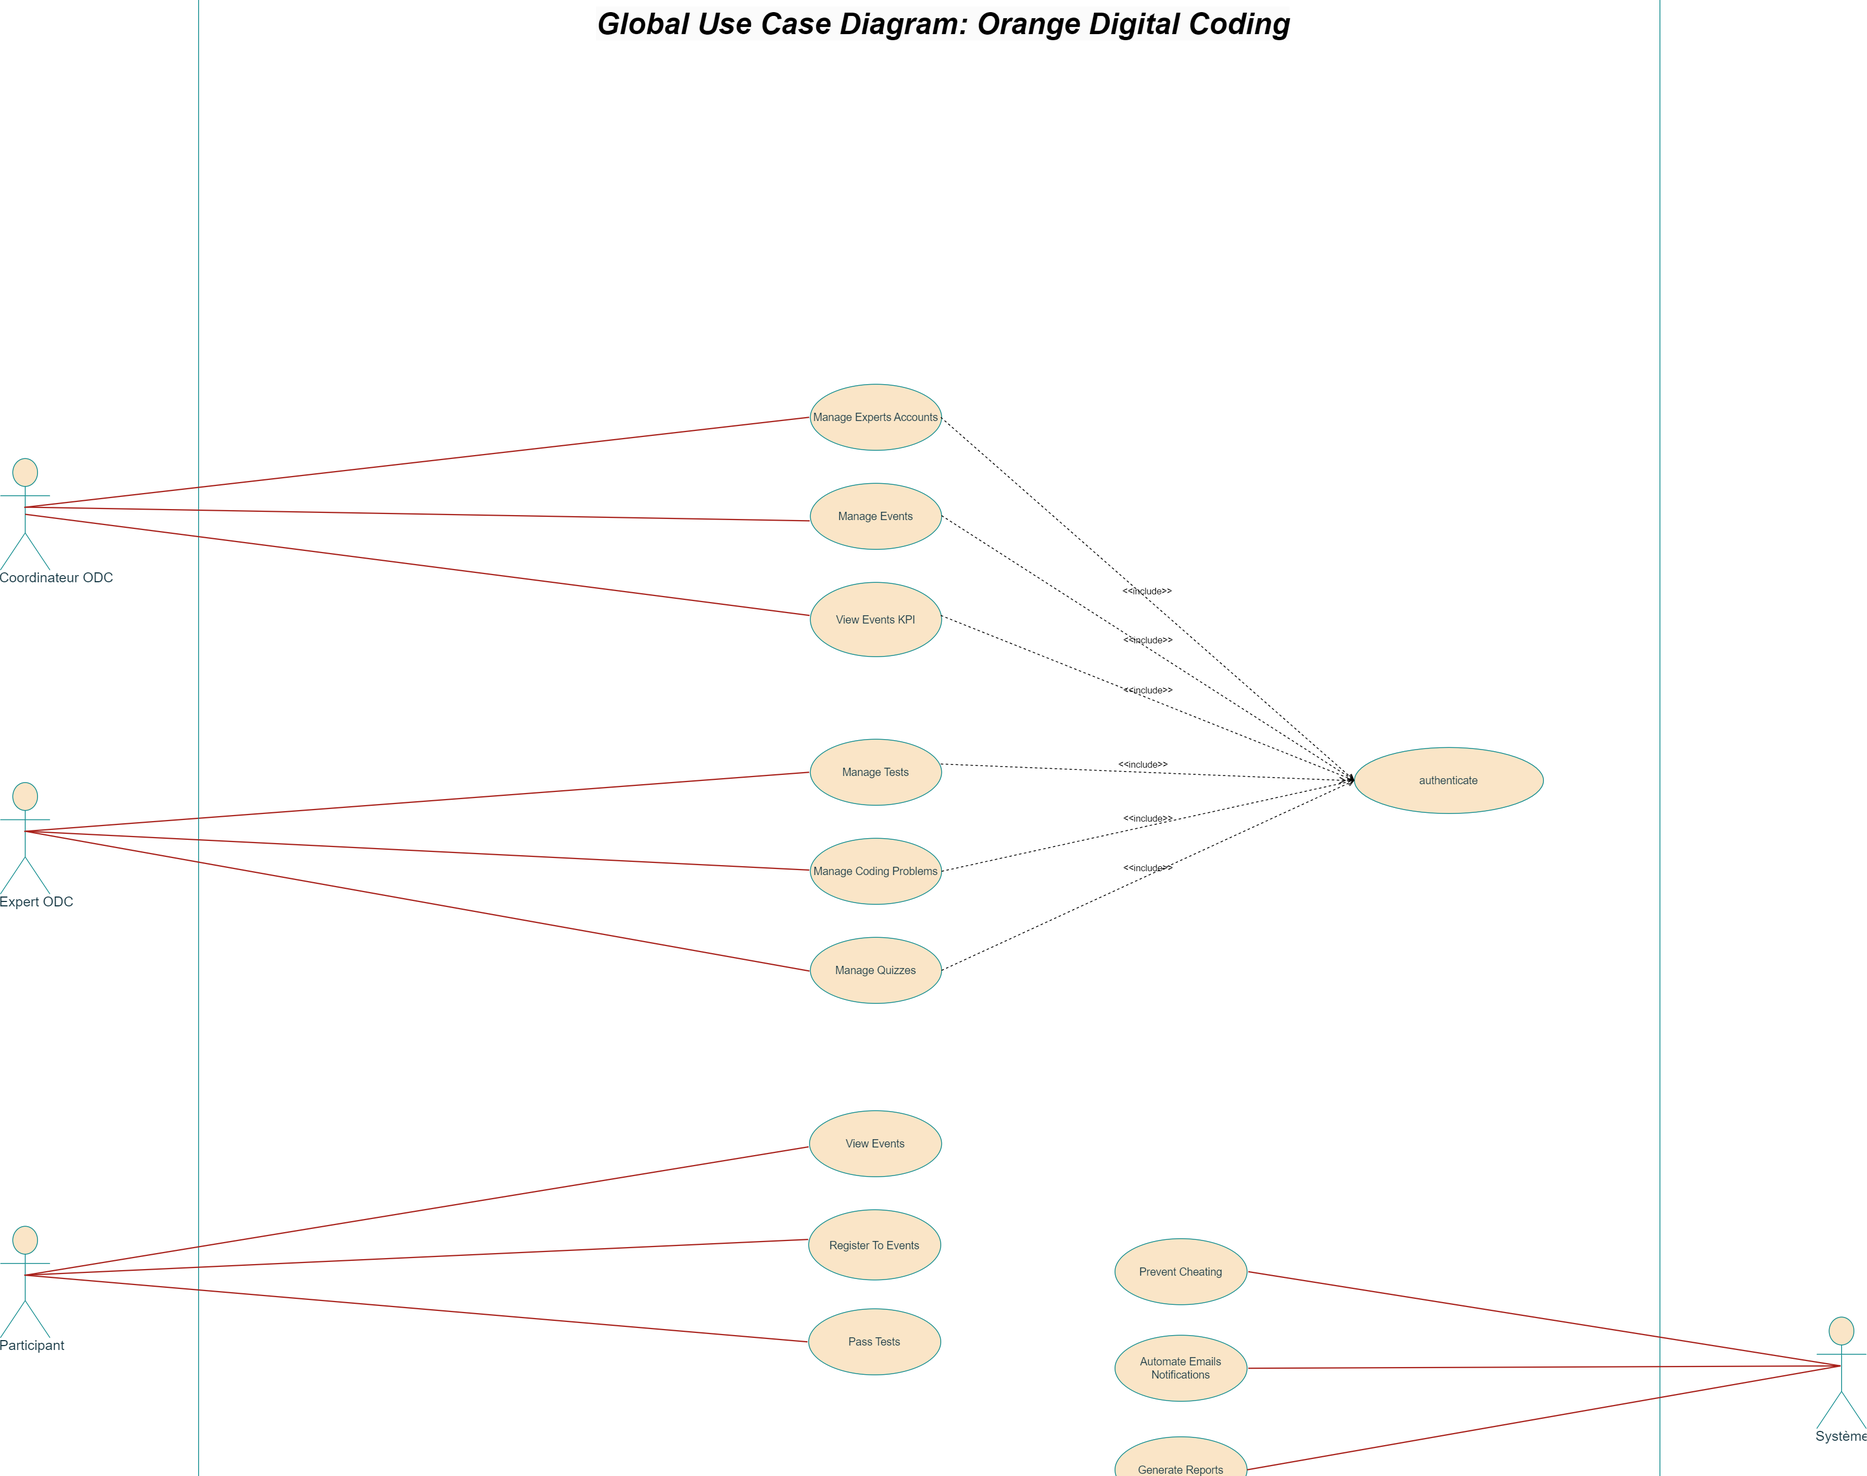
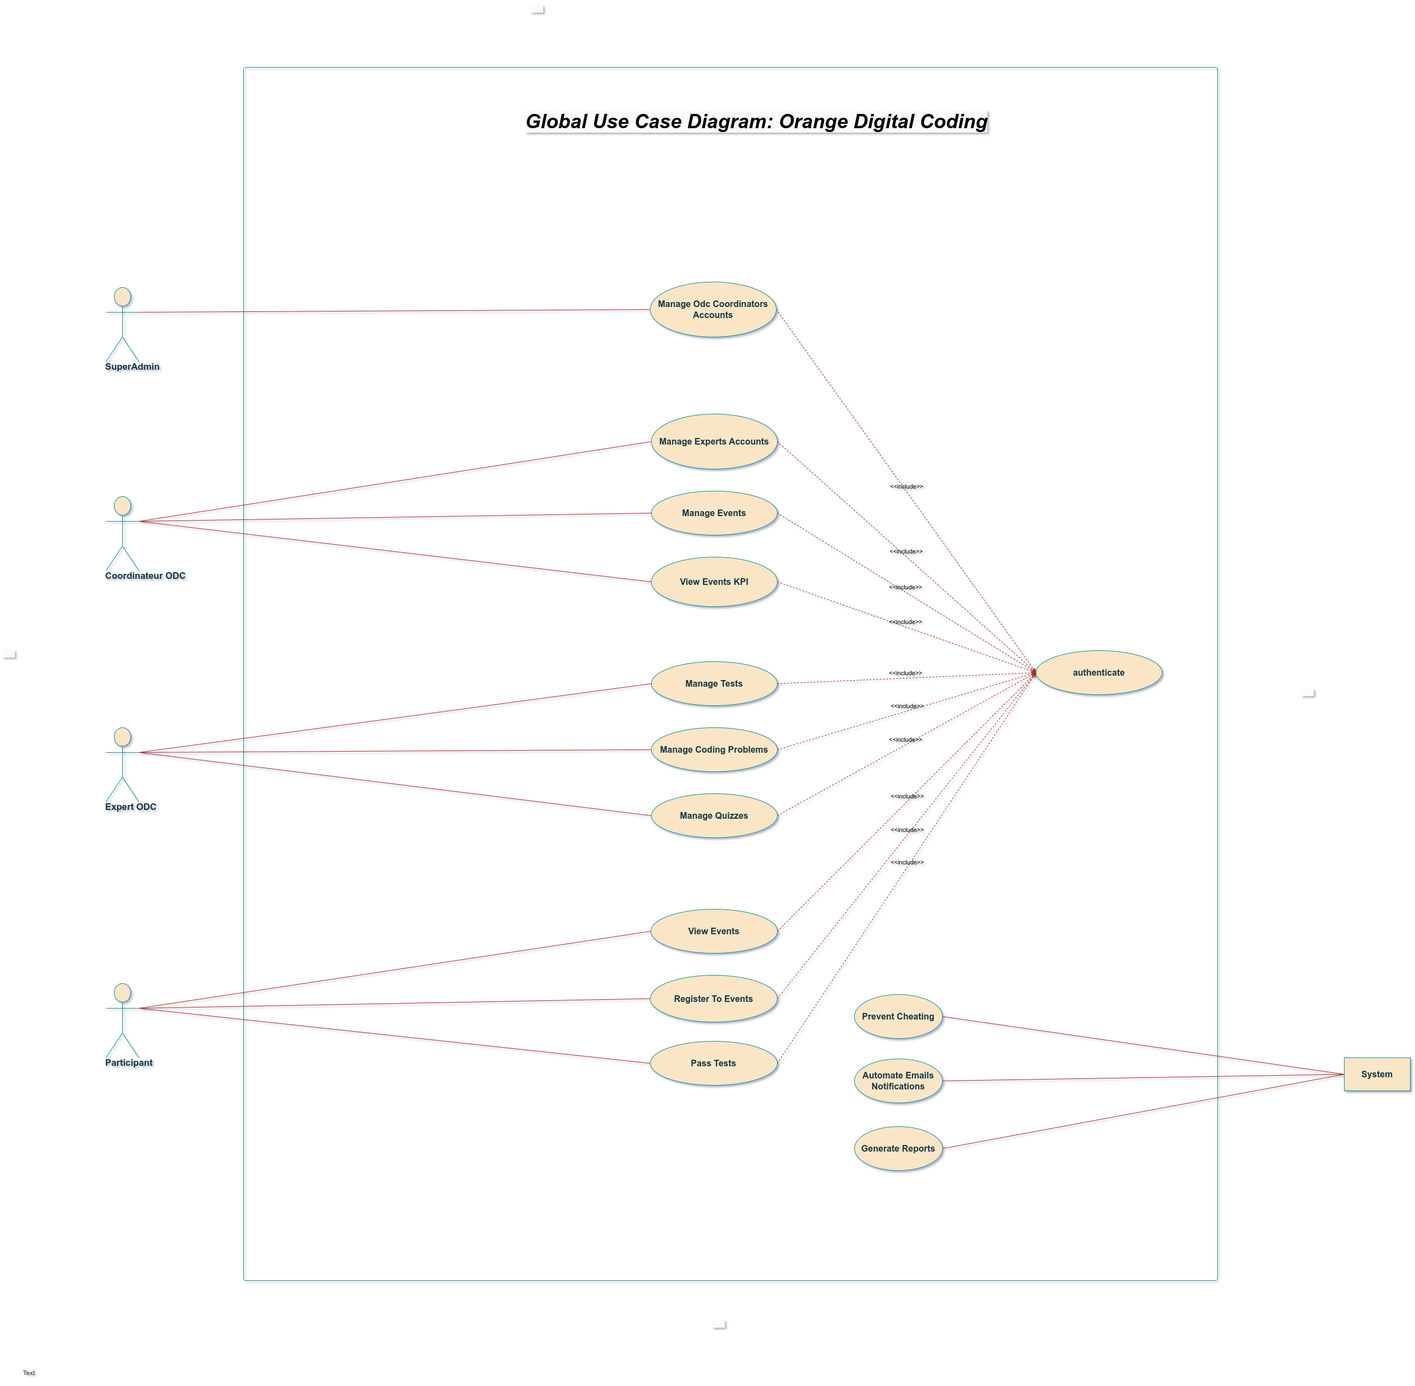
feat(sprint 1): finish wroking on sprint 1

diff --git a/chapters/chapter3.tex b/chapters/chapter3.tex
@@ -1,158 +1,167 @@
-\chapter{Sprint1}
+\chapter{Sprint 1: User Management}
+
 \section{Introduction}
-In this chapter, we will design and implement the functionalities of Sprint 1 of our project.
-We will first present the sprint backlog, where we will detail the requested features. The next step is to analyze the specified functionalities. Finally, we will show the output of this sprint.
-\section {Backlog Sprint}
-\begin{table}[h]
-\centering
+In this chapter we will discuss the user management side of our project.
+We focused on implementing the authentication and authorization
+flow for our system users and how we can manage them in our system.
 
-\begin{tabular}{|c|p{5cm}|c|p{10cm}|}
-\hline
-ID & US & Estimation & Tâches à réaliser \\
-\hline
- & & & \begin{tabular}[c]{@{}l@{}}
- - Setting up the work environment
-    \\- Preparing the project structure Backend
-    \\- Preparing the libraries and creating the REST APIs
-    \\ - Preparing the database \end{tabular} \\
-\hline
-1 & as a collaborator, I want to authenticate to the platform & 3 &\begin{tabular}[c]{@{}l@{}}- Creation of the graphical interface (UX) for authentication for \\ an Orange collaborator Administrator/Coordinator/Exepert\\
+We Have Three Types of Users That we should manage and allow them to use the platform
+each with a given access level to assure its security and confidentiality. The three users are:
 
--Implement the interface
-\\-Implement the necessary methods to ensure user authentication
-\\-Test \end{tabular}\\
-\hline
-2 & as a collaborator, I want to logout of the platform & 2 & \begin{tabular}[c]{@{}l@{}} Creation of the graphical interface (UX) for logout for \\an Orange collaborator Administrator/Coordinator/Exepert\\
+Admin: Which is basically responsible for the creation of the ODC coordinators accounts
+and other features that are illustrated in the use case diagram bellow.
 
-    -Implement the interface
-    \\-Implement the necessary methods to ensure user logout
-    \\-Test \end{tabular}\\
-\hline
-3 & As a collaborator, I want to update my profile &2 & \begin{tabular}[c]{@{}l@{}}- Creation of the graphical interface (UX) for updating profile \\
-    - Implement the interface \\
-    - Implement the necessary methods to update profile details \\
-    - Test \end{tabular} \\
-\hline
-4 & As an ODC collaborator, I want to change my password &1& \begin{tabular}[c]{@{}l@{}}- Creation of the graphical interface (UX) for changing password \\
-    - Implement the interface \\
-    - Implement the necessary methods to change password \\
-    - Test \end{tabular} \\
-    \hline     
-\end{tabular}
+ODC Coordinator: Which is responsible for the creation of the ODC experts accounts, and managing events
 
-\end{table}
-\newpage 
-\begin{table}[h]
-    \centering
-    \begin{tabular}{|c|p{5cm}|c|p{10cm}|}
-        \hline
-        ID & US & Estimation & Tâches à réaliser \\
-        \hline
-        5 & As a super admin, I want to add an ODC coordinator & 2& \begin{tabular}[c]{@{}l@{}}- Creation of the graphical interface (UX) for adding an ODC\\ coordinator \\
-            - Implement the interface \\
-            - Implement the necessary methods to add an ODC coordinator \\
-            - Test \end{tabular} \\
-            \hline
-    6 &\begin{tabular}[c]{@{}l@{}} As a super admin,\\ I want to enable/disable \\an ODC collaborator \\coordinator/Expert \end{tabular} & 3& \begin{tabular}[c]{@{}l@{}}- Creation of the graphical interface (UX) for enabling/disabling an \\ODC collaborator coordinator/Expert \\
-        - Implement the interface \\
-        - Implement the necessary methods to enable/disable an ODC \\collaborator coordinator/Expert \\
-        - Test \end{tabular} \\
-        \hline
-        7 &  As a super admin,I want to view ODC Coordinators/Experts list & 3& \begin{tabular}[c]{@{}l@{}}- Creation of the graphical interface (UX) for viewing \\ODC coordinator/experts list \\
-            - Implement the interface \\
-            - Implement the necessary methods to view ODC experts list \\
-            - Test \end{tabular} \\
-            \hline
-        7 & As an ODC Coordinator, I want to add an ODC Expert &2& \begin{tabular}[c]{@{}l@{}}- Creation of the graphical interface (UX) for adding an\\ ODC Expert \\
-            - Implement the interface \\
-            - Implement the necessary methods to add an ODC Expert \\
-            - Test \end{tabular} \\
-            \hline        
-            8 & As an ODC Coordinator, I want to enable/disable an ODC Expert &2 & \begin{tabular}[c]{@{}l@{}}- Creation of the graphical interface (UX) for enabling\\/disabling an ODC Expert \\
-                - Implement the interface \\
-                - Implement the necessary methods to enable/disable \\an ODC Expert \\
-                - Test \end{tabular} \\
-                \hline
-                9 & As an ODC Coordinator,I want to view ODC experts list &2 & \begin{tabular}[c]{@{}l@{}}- Creation of the graphical interface (UX) for viewing \\ODC experts list \\
-                    - Implement the interface \\
-                    - Implement the necessary methods to view ODC experts list \\
-                    - Test \end{tabular} \\
-                    \hline
-                
-    \end{tabular}
-    \caption{Backlog for the First Sprint}
-\label{tab:Backlog for the First Sprint}
-\end{table}
+ODC Expert: Which is responsible for the technical part of the system, such as creating and managing problems,
+add quizzes and so on.
+
+to achieve this separation of concerns and to assure the security of the system we used a token-based authentication.
+we chose the security standard JWT (JSON Web Token) to implement the authentication, and a role based access control
+to manage the access level of each user. Adding to that we used the bcrypt library to hash passwords and store them securely.
+
+\section{Sprint backlog}
+Before we start implementing the user management module, we defined the tasks needed in the sprint backlog.
+to share the same vision and share responsibilities between the team members. The following table shows the tasks
+we defined for the user management module.
+
+\begin{longtable}{|>{\raggedright\arraybackslash}p{2cm}|>{\raggedright\arraybackslash}p{3cm}|>{\raggedright\arraybackslash}p{8cm}|}
+  \caption{User Management Module Features}                                                                     \\
+  \hline
+  \textbf{ID} & \textbf{Functionality}      & \textbf{Feature}                                                  \\ \hline
+  \endhead
+
+  \hline
+  \endfoot
+
+  \hline
+  \endlastfoot
+
+  1           & \textbf{Authentication}     & 1.1 As an ODC admin, I can authenticate                           \\ \cline{3-3}
+              &                             & 1.2 As an ODC coordinator, I can authenticate                     \\ \cline{3-3}
+              &                             & 1.3 As an ODC expert, I can authenticate                          \\ \hline
+  2           & \textbf{User Management}    & 2.1 As an ODC admin, I can add an ODC coordinator                 \\ \cline{3-3}
+              &                             & 2.2 As an ODC admin, I can list all ODC coordinators accounts     \\ \cline{3-3}
+              &                             & 2.3 As an ODC admin, I can list all ODC experts accounts          \\ \cline{3-3}
+              &                             & 2.4 As an ODC admin, I can search all ODC coordinators accounts   \\ \cline{3-3}
+              &                             & 2.5 As an ODC coordinator, I can list all ODC experts accounts    \\ \cline{3-3}
+              &                             & 2.6 As an ODC coordinator, I can add an ODC expert account        \\ \cline{3-3}
+              &                             & 2.7 As an ODC coordinator, I can list all ODC experts accounts    \\ \cline{3-3}
+              &                             & 2.8 As an ODC coordinator, I can search ODC experts accounts list \\ \cline{3-3}
+              &                             & 2.9 As an ODC coordinator, I can disable an expert account        \\ \hline
+  3           & \textbf{Profile Management} & 3.1 As an ODC admin, I can update my profile                      \\ \cline{3-3}
+              &                             & 3.2 As an ODC admin, I can change my password                     \\ \cline{3-3}
+              &                             & 3.3 As an ODC coordinator, I can update my profile                \\ \cline{3-3}
+              &                             & 3.4 As an ODC coordinator, I can change my password               \\ \cline{3-3}
+              &                             & 3.5 As an ODC expert, I can update my profile                     \\ \cline{3-3}
+              &                             & 3.6 As an ODC expert, I can change my password                    \\ \hline
+\end{longtable}
+
 \newpage
-\section{Use Case Diagram for Sprint 1} 
-The following figure represents the use case diagram for our first sprint.
+\section{Uml And Design}
+We used the following UML diagram to design the user management module.
+
 \begin{figure}[h!]
-    \centering
-    \includegraphics[height=1\textwidth]{images/usecaseS1.png}
-    \caption{Use Case Diagram for Sprint 1}
-    \label{fig:Use Case Diagram for Sprint 1}
+  \centering
+  \includegraphics[width=0.8\textwidth]{images/userManagementUseCase.drawio.png}
+  \caption{User Management UML Diagram}
 \end{figure}
-\newpage 
 
-\subsection{Textual Description of the Use Case "Authenticate"}
-\begin{table}[h]
-    \centering
-    \begin{tabular}{|c|c|}
-        \hline
-        Use Case & authenticate \\
-        \hline
-    Actor &\begin{tabular}[c]{@{}l@{}} User: Collaborator/Administrator
+Now for the design of the user management module, we used the following MongoDB schema to store the user data.
+
+\begin{figure}[htp!]
+  \centering
+  \includegraphics[width=0.8\textwidth]{images/diagram-ODCCollaborator.png}
+  \caption{User Management Schema}
+\end{figure}
+
+The following figure represents the use case diagram for our first sprint.
+
+\subsection{Textual Description of the login feature}
+
+\begin{table}[h!]
+  \centering
+  \begin{tabular}{|c|c|}
+    \hline
+    Use Case           & authenticate                                                                                                                           \\
+    \hline
+    Actor              & \begin{tabular}[c]{@{}l@{}} User: Collaborator/Administrator
+                         \end{tabular}                                                                            \\
+    \hline
+    Brief Description  & \begin{tabular}[c]{@{}l@{}} The user must be registered in the database and must know their credentials
+                         \end{tabular}                                 \\
+    \hline
+    Pre-condition      & \begin{tabular}[c]{@{}l@{}} The user must have their access parameters
+                         \end{tabular}                                                                  \\
+    \hline
+    Post-condition     & \begin{tabular}[c]{@{}l@{}} The user is successfully authenticated
+                         \end{tabular}                                                                      \\
+    \hline
+    Main Scenario      & \begin{tabular}[c]{@{}l@{}} 1. The user enters their credentials (email and password) in the appropriate fields \\and submits the form.
+                           \\ 2. The system verifies the information entered by the user
+                           \\3. The system displays the appropriate interface according to the role of the user
+                         \end{tabular} \\
+    \hline
+    Exception Scenario & \begin{tabular}[c]{@{}l@{}} 1.1 The entered data is incorrect or missing:
+                           \\  2.1.1 The system displays an error message and the use case returns to step 1 of the main scenario
+                           \\2.1 The entered credentials do not exist in the database:
+                           \\2.1.1 The system displays an error message and the use case returns to step 2 of the main scenario
+                         \end{tabular}                                  \\
+    \hline
+    Extension          & \begin{tabular}[c]{@{}l@{}} In case of forgotten password, the user can redefine a new password
+                         \end{tabular}                                         \\
+    \hline
+  \end{tabular}
+
+  \begin{center}
+    \caption{Backlog for the First Sprint}
+    \label{tab:Backlog for the First Sprint}
+  \end{center}
+\end{table}
+
+\subsection{the sequence diagram of the login feature}
+
+\begin{figure}[h!]
+  \centering
+  "The following figure represents the sequence diagram for the use case 'authenticate'."\\
+  \includegraphics[width=0.8\textwidth]{images/diagram seq.png}
+  \caption{the sequence diagram for the use case 'authenticate'}
+  \label{fig:the sequence diagram for the use case 'authenticate'}
+\end{figure}
+
+\section{User Interfaces}
+
+The following figures show the user interfaces of the user management module after implementing
+the functionalities that are defined in the sprint backlog.
+
+\begin{figure}[h!]
+  \centering
+  \includegraphics[width=0.8\textwidth, height=0.3\textheight]{images/odc-login.png}
+  \caption{Login Page}
+\end{figure}
+
+\begin{figure}[h!]
+  \centering
+  \includegraphics[width=0.8\textwidth, height=0.3\textheight]{images/odc-view-profile.png}
+  \caption{View Profile}
+\end{figure}
 
 
-    \end{tabular} \\
-        \hline
-        Brief Description &\begin{tabular}[c]{@{}l@{}} The user must be registered in the database and must know their credentials
-        \end{tabular} \\
-            \hline
-            Pre-condition &\begin{tabular}[c]{@{}l@{}} The user must have their access parameters
-            \end{tabular} \\
-                \hline
-                Post-condition &\begin{tabular}[c]{@{}l@{}} The user is successfully authenticated
-                \end{tabular} \\
-                    \hline
-                    Main Scenario &\begin{tabular}[c]{@{}l@{}} 1. The user enters their credentials (email and password) in the appropriate fields \\and submits the form.
-                       \\ 2. The system verifies the information entered by the user
-                        \\3. The system displays the appropriate interface according to the role of the user
-                    \end{tabular} \\
-                        \hline
-                        Exception Scenario &\begin{tabular}[c]{@{}l@{}} 1.1 The entered data is incorrect or missing:
-                          \\  2.1.1 The system displays an error message and the use case returns to step 1 of the main scenario
-                            \\2.1 The entered credentials do not exist in the database:
-                            \\2.1.1 The system displays an error message and the use case returns to step 2 of the main scenario
-                        \end{tabular} \\
-                            \hline
-                            Extension &\begin{tabular}[c]{@{}l@{}} In case of forgotten password, the user can redefine a new password
-                            \end{tabular} \\
-                                \hline
-                                
-    \end{tabular}
-    
-    \begin{center}
-        \caption{Backlog for the First Sprint}
-        \label{tab:Backlog for the First Sprint}
-        \end{center}    
-    \end{table}
-    \subsection{the sequence diagram for the use case 'authenticate'}
-    
-    \begin{figure}[h!]
-        \centering
-        "The following figure represents the sequence diagram for the use case 'authenticate'."\\
-        \includegraphics[width=0.8\textwidth]{images/diagram seq.png}
-        \caption{the sequence diagram for the use case 'authenticate'}
-        \label{fig:the sequence diagram for the use case 'authenticate'}
-  \end{figure}
+\begin{figure}[h!]
+  \centering
+  \includegraphics[width=0.8\textwidth, height=0.3\textheight]{images/odc-coordinators-list.png}
+  \caption{ODC coordinators list}
+\end{figure}
 
 
+\begin{figure}[h!]
+  \centering
+  \includegraphics[width=0.8\textwidth, height=0.3\textheight]{images/odc-change-password.png}
+  \caption{Change Password}
+\end{figure}
 
-
-
-
-   
-    \newpage
-    Each user who wants to authenticate must access the authentication page. Then, they enter their email and password. The system validates and verifies their existence. If these credentials are valid, a message indicating that the user must activate their account via email is sent. The user then checks their email inbox and clicks on the received link to securely access their personal space. Otherwise, an error message is displayed indicating that the entered data is invalid.
-
+\begin{figure}[h!]
+  \centering
+  \includegraphics[width=0.8\textwidth, height=0.3\textheight]{images/odc-add-new-coordinator.png}
+  \caption{Add New Coordinator}
+\end{figure}

diff --git a/chapters/chapter2.tex b/chapters/chapter2.tex
@@ -2,14 +2,14 @@
 \section{Introduction}
 In this chapter, we will describe the specification of functional and
 non-functional requirements, and we will also explain how to manage the
-implementation of the platform using SCRUM
+implementation of the platform using SCRUM framework.
 
-\section{Needs analysis}
+\section{Requirements analysis}
 In this section, we will distinguish between the functional requirements that
 outline the expected functionalities of our application and the non-functional
 requirements to avoid the development of an unsatisfactory application.
 
-\section{Identification of actors}
+\section{Identification of key actors}
 In this section, we detail the actors who interact within our application. An
 actor can be a user or a hardware device that interacts directly with the
 system under study.
@@ -172,7 +172,7 @@ indicate the order of their implementation.
 \end{longtable}
 
 
-\section{Planning sprints}
+\section{Sprints Planning}
 The sprint planning meeting is the most important event in SCRUM. The purpose
 of this meeting is to prepare the work schedule and identify the sprint
 backlog. One of the outcomes of this meeting is the choice of sprint duration,
@@ -186,7 +186,7 @@ functionality and the actors' roles in the system.
 \begin{figure}[h!]
       \centering
 
-      \includegraphics[width=0.8\textwidth]{images/useCaseGlobal.png}
+      \includegraphics[height=1\textwidth]{images/useCaseGlobal.png}
       \caption{Global use case diagram}
       \label{fig:use_case_diagram}
 \end{figure}

diff --git a/chapters/chapter1.tex b/chapters/chapter1.tex
@@ -117,10 +117,10 @@ evaluate job candidates by testing their problem solving skills. The goal
 is to provide a user-friendly interface and a seamless experience for ODC
 coordinators, candidates and event participants.
 
-\subsection{Problematic}
-the Orange Digital Center lacks a dedicated platform to
-manage coding events and evaluate job candidates. This leads to several
-challenges, including:
+\subsection{Problem Statement}
+the Orange Digital Center lacks a dedicated platform to manage coding 
+events and evaluate job candidates. This leads to several challenges, including:
+
 \begin{itemize}
       \item Difficulty in tracking candidates and managing internships
             applications
@@ -128,7 +128,7 @@ challenges, including:
       \item No KPIs to evaluate the engagement and performance of candidates
 \end{itemize}
 
-\subsection{Analysis of the current situation}
+\subsection{Situation Analysis}
 most of the existing platforms in the market either comes with a high cost or
 lack the flexibility to adapt to the specific needs of the Orange Digital
 Center, thus

diff --git a/main.tex b/main.tex
@@ -13,6 +13,7 @@
 \usepackage{caption}
 
 \usepackage[section]{placeins}
+\usepackage{array}
 
 \setcounter{secnumdepth}{5}
 \spacing{1.5}
